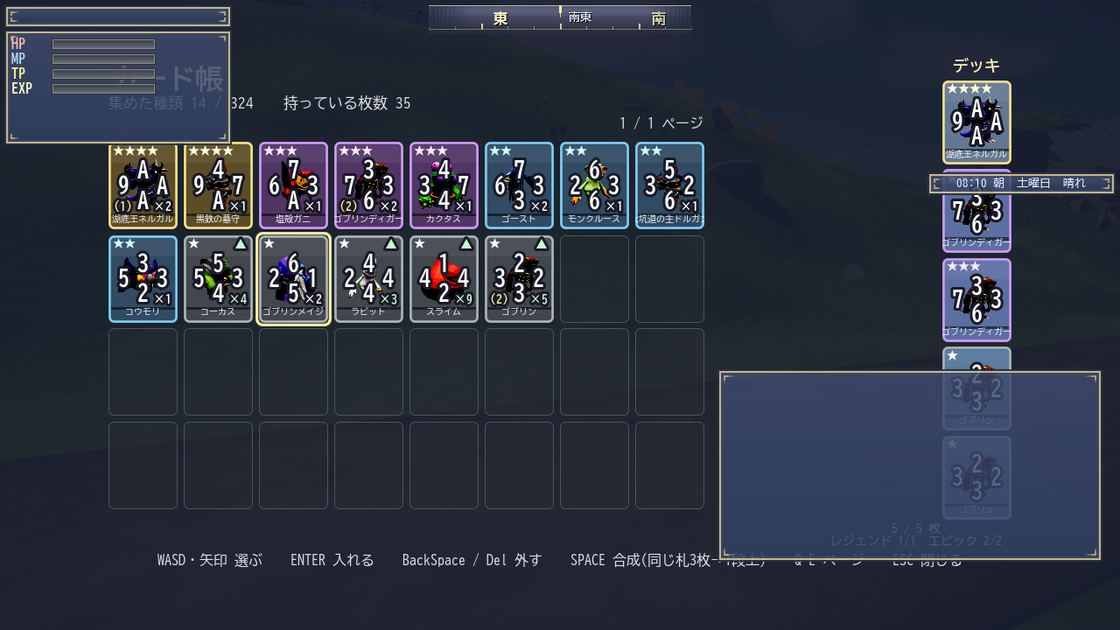
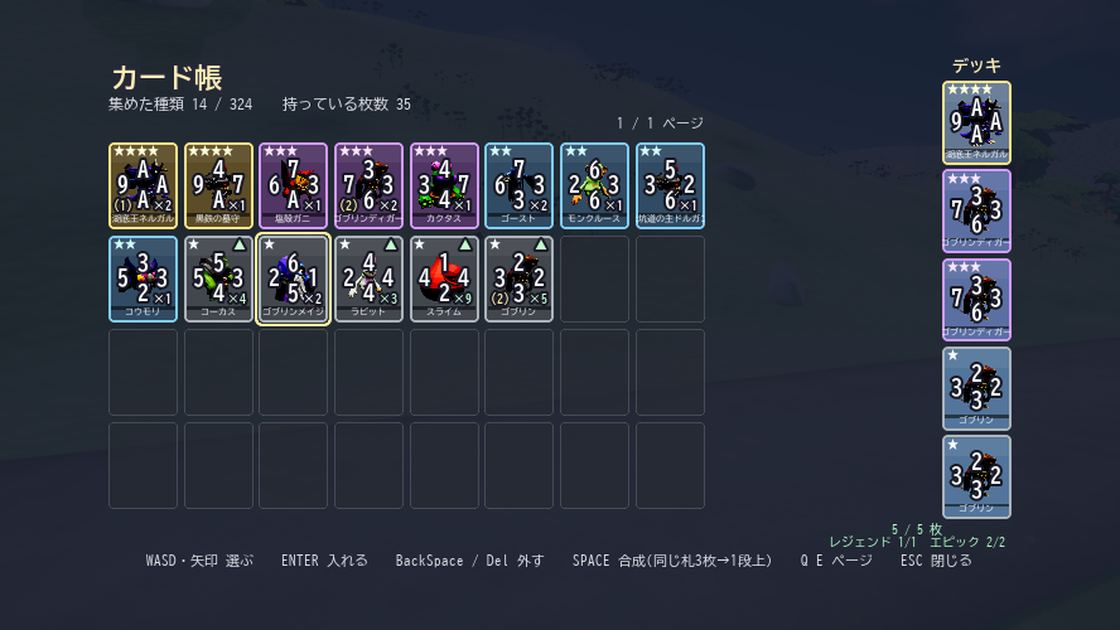
カード帳と倉庫の写真を差し替え(対応版 1.5.151)
カード帳: 体力帯・方位帯・時計・チャット窓が写り込んでいたので、
  画面を覆う窓を撮る時はいつものUIを隠すようにした。
倉庫窓: どの升も空でイメージが沸かないという指摘を受け、
  品の表から実物を並べた(持ち物8個・倉庫14個・数の重なりも混ぜた)。

diff --git a/docs/index.html b/docs/index.html
@@ -63,7 +63,7 @@ footer{max-width:var(--max);margin:0 auto;padding:20px 16px 40px;color:var(--dim
 <header class="hero"><div class="in">
 <h1>グリオン攻略ガイド</h1>
 <p>Grimoire Online（グリオン）を初めて遊ぶ人のための手引き。操作・最初の一歩・レベル別の進め方・ゾーン・ジョブ・仲間・競クルル・Webポータルまで。</p>
-<span class="tag">対応版 1.5.143　更新 2026年09月22日</span> <a class="tag" href="https://towa219.github.io/GrimoireOnline/story/" style="text-decoration:none">📖 グリオン物語を読む</a>
+<span class="tag">対応版 1.5.151　更新 2026年09月22日</span> <a class="tag" href="https://towa219.github.io/GrimoireOnline/story/" style="text-decoration:none">📖 グリオン物語を読む</a>
 </div></header>
 <div class="wrap">
 <nav class="toc"><b>もくじ</b><a href="#start">はじめに</a><a href="#ctrl">操作のまとめ</a><a href="#first">最初にやること</a><a href="#road">レベル別の進め方</a><a href="#quest">クエスト一覧</a><a href="#zone">ゾーン紹介</a><a href="#job">ジョブ紹介</a><a href="#kizuna">絆(仲間)</a><a href="#battle">戦いの基礎</a><a href="#derby">競クルル</a><a href="#web">Webポータル(スマホ)</a><a href="#play">釣り・採取・合成・グリカ</a><a href="#high">高レベルの遊び</a><a href="#item">アイテム</a><a href="#tips">便利な機能と設定</a><a href="#faq">困った時</a></nav>
@@ -680,4 +680,4 @@ footer{max-width:var(--max);margin:0 auto;padding:20px 16px 40px;color:var(--dim
 </section>
 
 </main></div>
-<footer>グリオン攻略ガイド ─ 対応版 1.5.143（2026年09月22日）。数字はゲームのデータ表から自動で作っています。内容はゲームの更新で変わることがあります。<br>更新のお知らせ: <a href="https://x.com/GrimoireOnline" target="_blank" rel="noopener">X(旧Twitter) @GrimoireOnline</a></footer>
+<footer>グリオン攻略ガイド ─ 対応版 1.5.151（2026年09月22日）。数字はゲームのデータ表から自動で作っています。内容はゲームの更新で変わることがあります。<br>更新のお知らせ: <a href="https://x.com/GrimoireOnline" target="_blank" rel="noopener">X(旧Twitter) @GrimoireOnline</a></footer>
